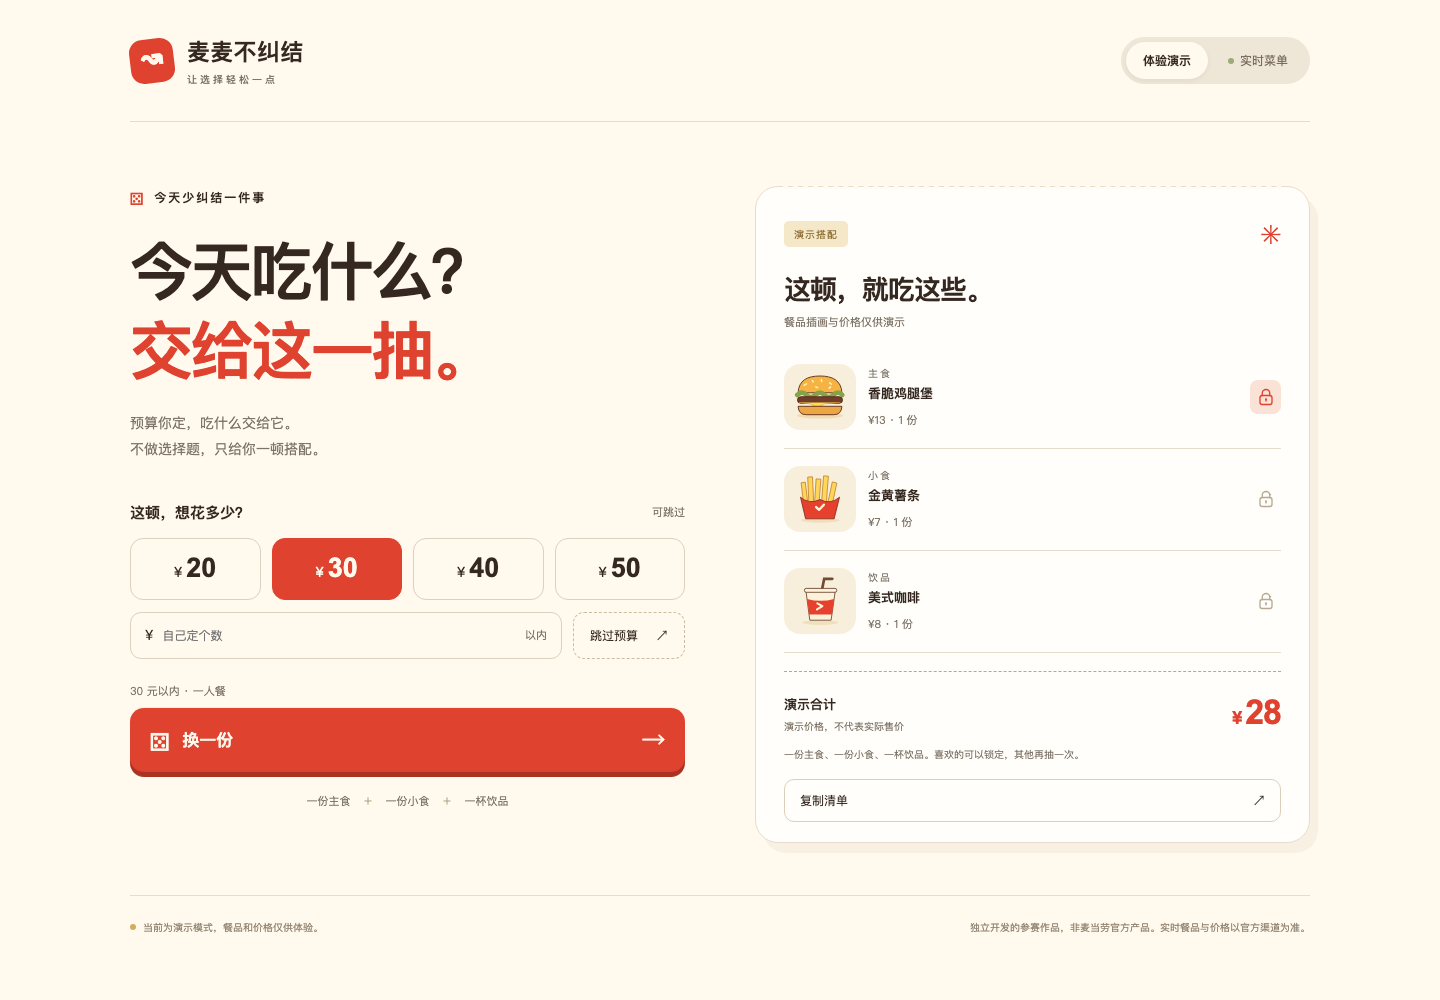
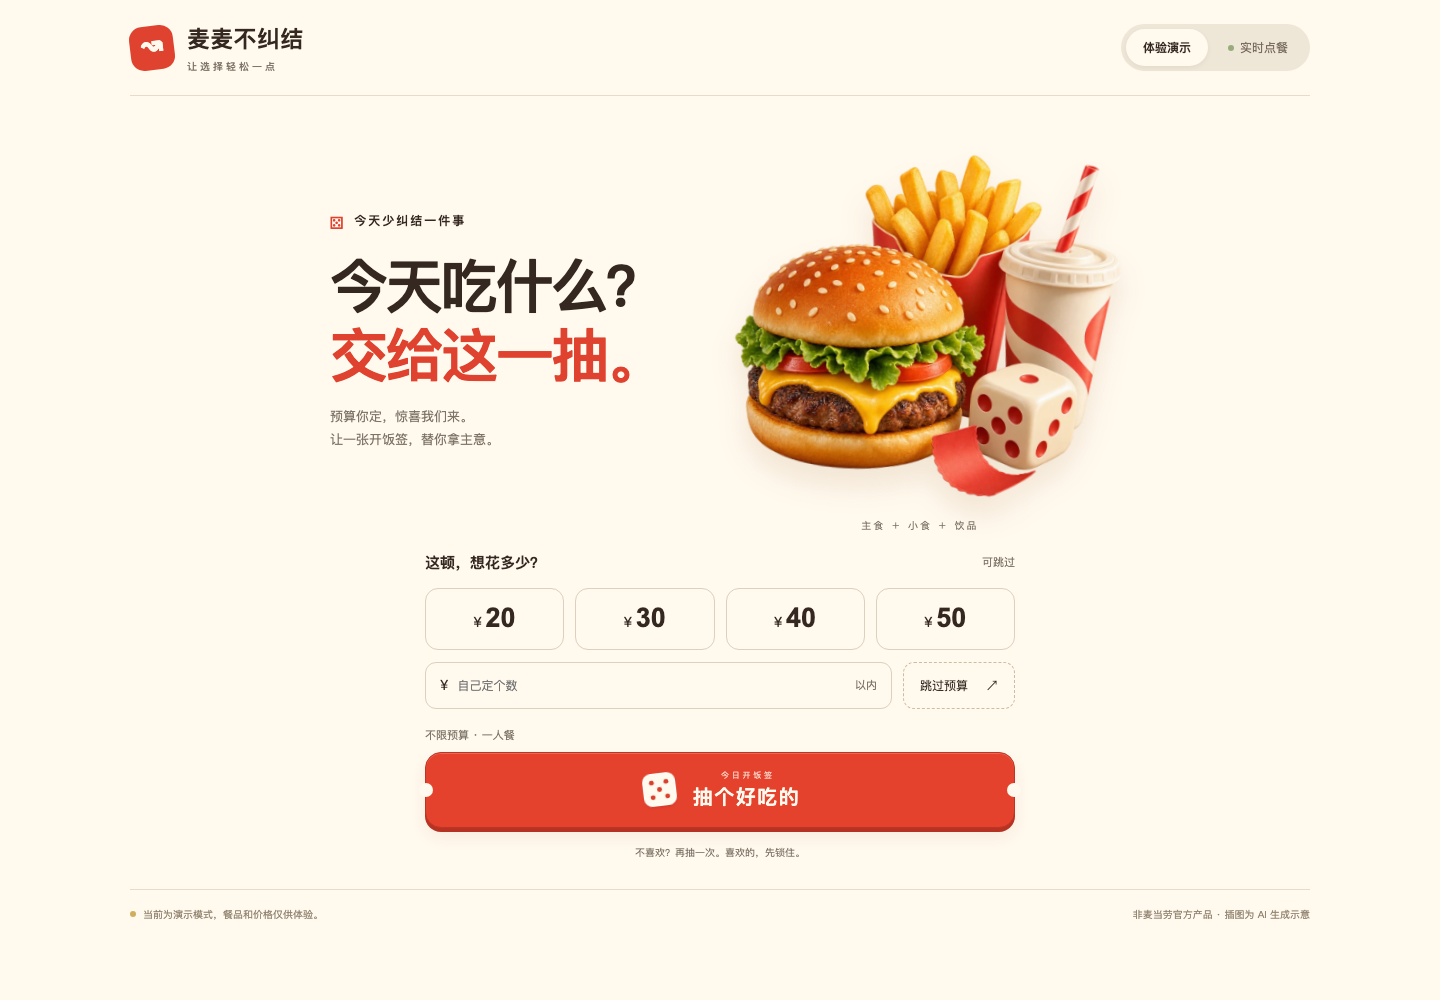
Refine draw button and record official contest acceptance

diff --git a/web/index.html b/web/index.html
@@ -5,7 +5,7 @@
 <main class="main-grid"><section class="decision" aria-labelledby="hero-title"><div class="intro"><div class="hero-copy"><span class="eyebrow"><span class="tiny-dice" aria-hidden="true">⚄</span> 今天少纠结一件事</span><h1 id="hero-title">今天吃什么？<br><span>交给这一抽。</span></h1><p class="lead">预算你定，惊喜我们来。<br>让一张开饭签，替你拿主意。</p></div><div class="hero-art"><img src="./assets/meal-hero.webp" width="900" height="900" alt="" fetchpriority="high"><span class="hero-caption">主食 ＋ 小食 ＋ 饮品</span></div></div>
 <section id="live-panel" class="live-panel" aria-label="连接账户与选择门店" hidden><div class="panel-label"><strong>先选一家门店</strong><span>到店取餐</span></div><section id="auth-panel" hidden><form id="auth-form"><label for="account-token">连接你自己的麦当劳账户</label><p class="muted">在<a href="https://open.mcd.cn/mcp" target="_blank" rel="noreferrer">麦当劳官方平台</a>获取个人 MCP Token，粘贴后仅用于本次连接。</p><div class="token-field"><input id="account-token" type="password" autocomplete="off" spellcheck="false" placeholder="粘贴你的 MCP Token" aria-label="个人 MCP Token" maxlength="512" required><button type="submit" class="store-search">连接账户</button></div><p class="muted">Token 经 Cloudflare 转发到本体验服务，仅在服务器内存使用。本次连接 30 分钟有效，不写入浏览器或磁盘；只在你确认后创建订单。</p></form><button id="disconnect" class="store-search" type="button" hidden>断开个人账户</button></section><p id="connection-note" class="muted"></p><form id="store-form"><div class="location-inputs"><label><span>城市</span><input id="city" name="city" placeholder="例如：上海" autocomplete="address-level2" maxlength="60" required></label><label><span>附近位置</span><input id="keyword" name="keyword" placeholder="地标或路名" maxlength="120" required></label></div><button class="store-search" type="submit">查找门店 <span aria-hidden="true">→</span></button></form><label id="store-label" hidden><span class="field-title">选择取餐门店</span><select id="store-select" aria-label="选择取餐门店"></select></label><p id="selected-store" class="muted"></p></section>
 <div class="budget-area"><div class="panel-label"><h2 id="budget-title" tabindex="-1">这顿，想花多少？</h2><span>可跳过</span></div><div class="budget-presets" role="group" aria-label="快捷预算"><button type="button" data-budget="20" aria-label="预算 20 元" aria-pressed="false"><small>¥</small>20</button><button type="button" data-budget="30" aria-label="预算 30 元" aria-pressed="false"><small>¥</small>30</button><button type="button" data-budget="40" aria-label="预算 40 元" aria-pressed="false"><small>¥</small>40</button><button type="button" data-budget="50" aria-label="预算 50 元" aria-pressed="false"><small>¥</small>50</button></div><div class="other-budget"><label class="custom-budget"><span aria-hidden="true">¥</span><input id="custom-budget" aria-label="自定义预算" aria-describedby="error" inputmode="decimal" autocomplete="off" placeholder="自己定个数" maxlength="16"><span class="unit">以内</span></label><button type="button" id="skip-budget" aria-pressed="false">跳过预算 <span aria-hidden="true">↗</span></button></div></div>
-<div id="setup-actions"><div id="action-area" class="action-area"><p id="budget-summary" class="budget-summary">不限预算 · 一人餐</p><button id="draw" class="draw-button" type="button"><span id="draw-icon" aria-hidden="true">⚄</span><span class="draw-words"><span class="ticket-kicker" aria-hidden="true">今日开饭签</span><span id="draw-label">抽个好吃的</span></span><span class="action-arrow" aria-hidden="true">↗</span></button><p id="error" class="error" role="alert" hidden></p><p id="message" class="message" role="status" hidden></p><p id="lock-note" class="muted" hidden></p><p class="composition">不喜欢？再抽一次。喜欢的，先锁住。</p></div></div></section>
+<div id="setup-actions"><div id="action-area" class="action-area"><p id="budget-summary" class="budget-summary">不限预算 · 一人餐</p><button id="draw" class="draw-button" type="button"><span class="draw-content"><span id="draw-icon" aria-hidden="true"><svg viewBox="0 0 40 40" focusable="false"><rect x="3" y="3" width="34" height="34" rx="9" fill="#fff9ee"/><rect x="4" y="4" width="32" height="32" rx="8" fill="none" stroke="#ffffff" stroke-opacity=".8"/><g fill="#d93f2b"><circle cx="12.5" cy="12.5" r="2.5"/><circle cx="27.5" cy="12.5" r="2.5"/><circle cx="20" cy="20" r="2.5"/><circle cx="12.5" cy="27.5" r="2.5"/><circle cx="27.5" cy="27.5" r="2.5"/></g></svg></span><span class="draw-words"><span class="ticket-kicker" aria-hidden="true">今日开饭签</span><span id="draw-label">抽个好吃的</span></span></span></button><p id="error" class="error" role="alert" hidden></p><p id="message" class="message" role="status" hidden></p><p id="lock-note" class="muted" hidden></p><p class="composition">不喜欢？再抽一次。喜欢的，先锁住。</p></div></div></section>
 <section class="meal-stage" aria-label="随机搭配结果" hidden><div id="empty" hidden></div><div id="result" class="result" hidden><div class="receipt-top"><span id="source-badge" class="source-badge">演示搭配</span><span class="receipt-icon" aria-hidden="true">✳</span></div><div class="meal-reveal-stamp" aria-hidden="true">今日饭签 · 已揭晓</div><h2 id="result-title" tabindex="-1">这顿，就吃这些。</h2><p id="meal-name" class="meal-name"></p><div id="meal-items" class="meal-items"></div><div class="receipt-total"><div><span id="total-label">演示合计</span><small id="price-note">演示价格，不代表实际售价</small></div><strong id="total" data-cents="0"></strong></div><p id="quote-status" class="quote-status"></p><button id="checkout-start" class="draw-button" type="button" hidden>就吃这份，去下单 <span aria-hidden="true">→</span></button><div id="result-actions"></div><div class="result-secondary-actions"><button id="edit-budget" class="copy-button" type="button">修改预算 <span aria-hidden="true">↶</span></button><button id="copy" class="copy-button" type="button">复制清单 <span aria-hidden="true">↗</span></button></div><p id="copy-status" class="muted" role="status"></p><div id="copy-fallback" hidden><label for="copy-text">未能自动复制，可以手动复制：</label><textarea id="copy-text" readonly rows="7"></textarea></div></div></section><section id="payment-panel" class="payment-panel" hidden aria-label="官方订单"><h3 id="order-title">这份餐单的官方订单</h3><p id="ordered-store"></p><p id="ordered-items"></p><p id="ordered-total"></p><p id="order-number"></p><p id="order-status" role="status"></p><a id="payment-link" class="payment-link" rel="noreferrer">前往麦当劳官方付款页 ↗</a><p id="payment-note" class="muted"></p><button id="refresh-order" class="copy-button" type="button">查询订单状态</button></section></main>
 <footer class="site-footer"><span><span class="footer-dot" aria-hidden="true"></span><span id="mode-note">当前为演示模式，餐品和价格仅供体验。</span></span><p>非麦当劳官方产品 · 插图为 AI 生成示意</p></footer></div>
 <div id="draw-ritual" class="draw-ritual" hidden role="status" aria-live="polite"><div class="ritual-content"><span class="ritual-eyebrow">你的今日开饭签</span><div class="ritual-cards" aria-hidden="true"><div><img src="./assets/food-burger.webp" alt=""></div><div><img src="./assets/food-fries.webp" alt=""></div><div><img src="./assets/food-cola.webp" alt=""></div></div><strong id="ritual-label">好吃的，马上揭晓。</strong><p>一份主食 · 一份小食 · 一杯饮品</p><button id="cancel-draw" type="button">先等等</button></div></div>

diff --git a/web/styles.css b/web/styles.css
@@ -19,3 +19,17 @@
 @media(max-width:760px){.hero-art{transform:none}.hero-art>img{width:124%;margin-left:-16%}}
 .main-grid>.payment-panel{width:100%;max-width:560px;justify-self:center;margin-top:25px}#ordered-items{padding:10px;background:#fffefa;border-radius:7px}#ordered-total{font-weight:700}
 .live-entry{display:flex;align-items:center;text-decoration:none;padding:10px 14px;border-radius:24px;font-size:12px;color:var(--red);font-weight:700}.live-entry:hover{background:#f9e5d8}@media(max-width:760px){.live-entry{font-size:10px;padding:8px 10px}}
+
+/* One centered action: a small crafted die and the meal-fortune label. */
+#draw{justify-content:center;gap:0;border-radius:16px;border:1px solid #bd3625;box-shadow:inset 0 1px 0 #fff9ee35,0 4px 0 #b63222,0 9px 17px #ba3d1e12}
+#draw .draw-content{display:inline-flex;align-items:center;justify-content:center;gap:14px;max-width:100%}
+#draw .draw-words{align-items:center;gap:4px}
+#draw .ticket-kicker{font-size:8px;letter-spacing:2.7px;opacity:.78;padding-left:2.7px}
+#draw #draw-label{font-size:20px;font-weight:700;letter-spacing:1.5px;line-height:1.2;white-space:nowrap}
+#draw #draw-icon{display:block;width:39px;height:39px;flex:0 0 39px;padding:0;margin:0;border:0;transform:rotate(-7deg);filter:drop-shadow(0 2px 1px #a5272230);transition:transform .2s ease}
+#draw #draw-icon svg{width:100%;height:100%}
+#draw:not(:disabled):hover #draw-icon{transform:rotate(5deg) translateY(-1px)}
+#draw:active:not(:disabled){box-shadow:inset 0 1px 0 #fff9ee25,0 1px 0 #b63222;transform:translateY(3px)}
+.has-result #draw #draw-label{font-size:18px}.has-checkout #draw{box-shadow:none}.has-checkout #draw #draw-icon{width:29px;height:29px;flex-basis:29px}.has-checkout #draw #draw-label{font-size:14px}
+@media(max-width:760px){#draw #draw-label{font-size:19px}.has-result #draw #draw-label{font-size:17px}}
+@media(prefers-reduced-motion:reduce){#draw #draw-icon,#draw:not(:disabled):hover #draw-icon{transform:none}}

diff --git a/README.md b/README.md
@@ -4,6 +4,8 @@
 
 **[打开公开体验版](https://sognotore.github.io/mcd-bujiejie/)**：可把链接发给朋友或发到微信群，无需安装。公开版使用演示菜单和价格，支持预算、随机搭配、锁定和重抽；右上角“真实点餐”可进入已授权的临时个人账户服务，每位使用者须连接自己的 MCP Token。临时入口需开发电脑保持运行。
 
+已获[官方成功参赛确认](https://github.com/M-China/mcd-developer-innovation-challenge/issues/742#issuecomment-6187376552)。喜欢这个工具，欢迎点击仓库右上角 **Star** 支持；比赛按项目公开 Star 数排名。
+
 ![网页演示](docs/images/web-preview.png)
 
 ## 可以做什么
@@ -17,7 +19,7 @@
 - 复制点餐清单；预算不足或查询失败时明确反馈。
 - 提供可独立安装的 [Skill](skills/mcd-bujiejie/SKILL.md)，支持在聊天中完成同一流程。
 
-适合每次打开菜单都拿不定主意、想限定一顿预算的单人用餐者。当前只支持到店取餐的搭配与试算。
+适合每次打开菜单都拿不定主意、想限定一顿预算的单人用餐者。当前就餐场景限定到店取餐，包含搭配、试算和用户确认后的下单预览。
 
 ## 本地运行
 
@@ -32,7 +34,7 @@ npm start
 
 ### 连接真实菜单
 
-从 [麦当劳官方平台](https://open.mcd.cn/mcp) 申请自己的 MCP Token，将 `.env.example` 复制为本机 `.env`，只在 `.env` 填入 `MCD_MCP_TOKEN`。重启 `npm start`，切换“实时菜单”，输入自己的城市和地标并选择门店。
+从 [麦当劳官方平台](https://open.mcd.cn/mcp) 申请自己的 MCP Token，将 `.env.example` 复制为本机 `.env`，只在 `.env` 填入 `MCD_MCP_TOKEN`。重启 `npm start`，切换“实时点餐”，输入自己的城市和地标并选择门店。
 
 凭证只在服务端读取，`.env` 已忽略；网页不会收到 Token。不要使用作者账户为公众提供共享代理。本机服务只监听 `127.0.0.1`。
 

diff --git a/docs/progress.md b/docs/progress.md
@@ -11,7 +11,7 @@
 
 审查记录：套餐复制遗漏按其可能导致拆单和价格不符的实际影响一并修复；无待处理重要问题。官方字段与视觉均由主执行者实测，范围以 verification.md 为准。
 
-公开发布：Sognotore/mcd-bujiejie 已创建并推送；官方报名 Issue #742 已提交，校验回执待确认。
+公开发布：Sognotore/mcd-bujiejie 已创建并推送；官方报名 Issue #742 已提交，现已收到成功参赛回执。
 
 公开分享：新增浏览器内运行的静态演示构建，已通过子路径、预算、锁定、重抽、手机布局、无后端请求及凭证扫描验证；GitHub Pages 部署 built；正式公网地址匿名 HTTP 200，浏览器重复验证通过。入口 https://sognotore.github.io/mcd-bujiejie/ 。
 
@@ -20,3 +20,5 @@
 用户已确认官方下单付款流程，个人会话、确认页和待支付订单代码已实现；48 项业务及 15 项浏览器测试通过。真实核验停在 47.50 元确认页，无下单请求。用户明确授权 Cloudflare 临时隧道，独立复核完成，三个重要问题已建立回归并修复；个人账户公网服务已部署并验证到确认页，未创建真实订单。新首页、生成图和开饭签动效已在 Pages 发布并复测。
 
 用户希望免申请 Token 的麦当劳账号授权。已核验 MCP 公开接入、标准 OAuth 发现地址、官方商户购物车文档；尚未找到可直接用的第三方用户授权接口。整理 account-authorization.md 及官方咨询草稿，未发送，未修改线上授权流程。
+
+参赛状态更新：已读到官方账号 M-China-Official 于北京时间 15:59:24 的成功参赛回执；复用 Issue #742，不重复提交报名。按用户反馈去掉抽餐按钮右侧箭头，骰子与文字整体居中。

diff --git a/docs/submission.md b/docs/submission.md
@@ -7,8 +7,14 @@
 - 默认分支：`codex/mcd-bujiejie`。
 - 报名 Issue：https://github.com/M-China/mcd-developer-innovation-challenge/issues/742
 - GitHub 记录的提交时间：2026-10-15 07:32:31 UTC，即北京时间 15:32:31。
-- 当前状态：报名已提交，等待官方校验；未将提交 Issue 视为报名成功、入榜或获奖。
+- 当前状态：官方账号 `M-China-Official` 已回复“您的作品已成功参赛”。
+- 官方回执：https://github.com/M-China/mcd-developer-innovation-challenge/issues/742#issuecomment-6187376552
+- 回执时间：北京时间 2026-10-15 15:59:24。报名成功不等于入榜或获奖，排名仍以官方规则及最终公开 Star 数为准。
 
 已核验公开仓库匿名可读，必需文件完整，线上参赛声明与官方原件字节一致。真实 Token、账户券信息、原始响应、测试运行目录没有进入仓库或提交正文。
 
 报名正文按官方要求使用 `【参赛申请】`、项目名称、项目地址及项目简介；项目地址使用纯文本 URL。
+
+分享支持链接使用项目仓库 https://github.com/Sognotore/mcd-bujiejie ，请朋友登录 GitHub 后点击 Star；演示体验 https://sognotore.github.io/mcd-bujiejie/ 。活动于北京时间 2026-10-25 23:59 结束，最终榜单数据截点为 2026-10-26 00:00。
+
+2026-10-15 再次核对并更新同一份报名介绍，补充新版公开体验链接和实际验证边界；没有重复创建报名。可转发文案保存在 share-message.txt，未代用户发送给朋友。
